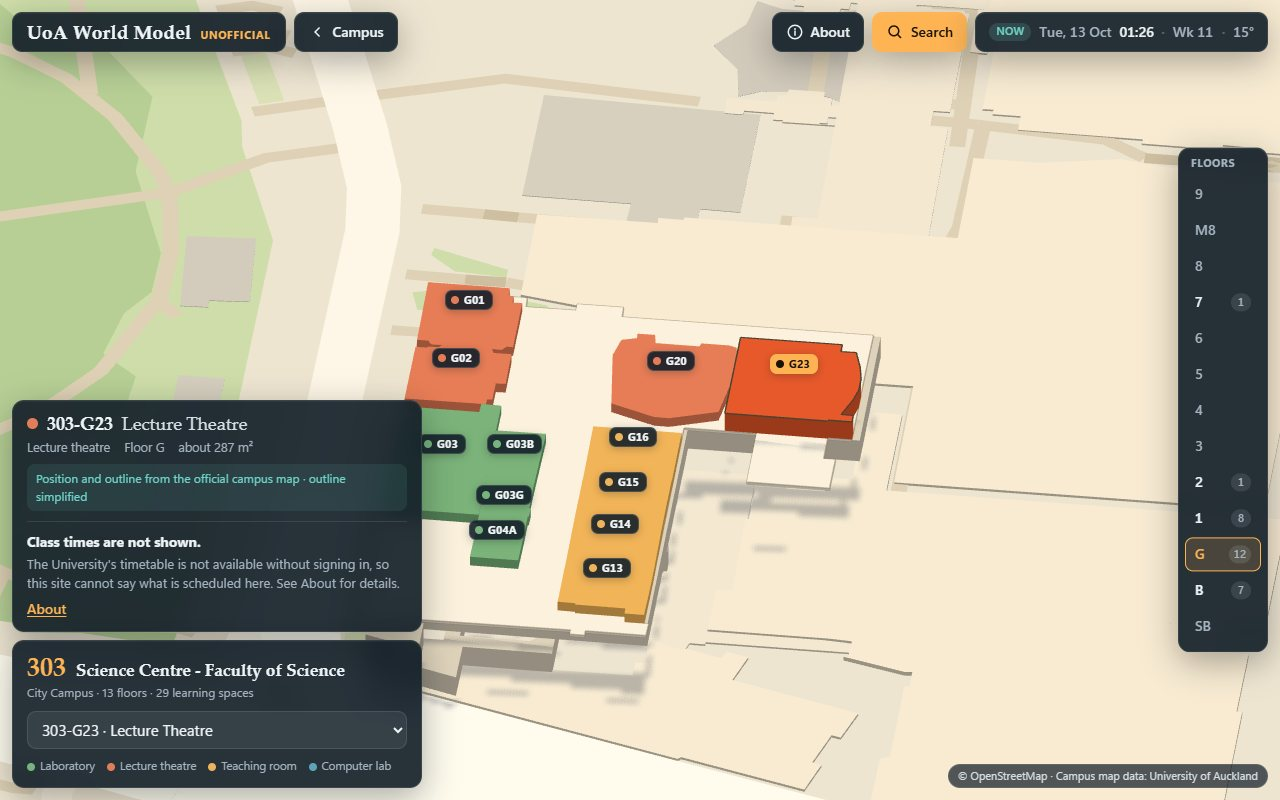
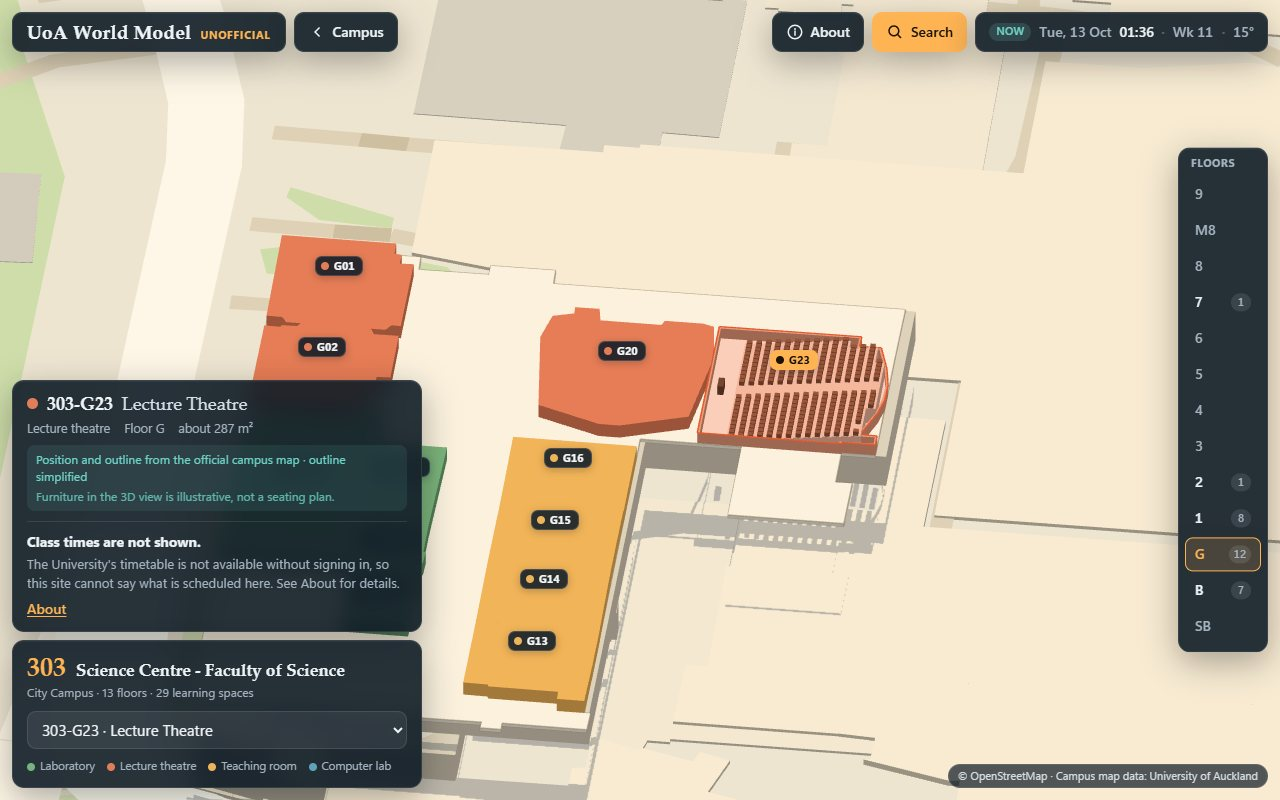
Final report in PROGRESS, live room screenshot, honest descriptions
Claude-Session: https://claude.ai/code/session_019PXYauNdE27cxXuBzu7uHR

diff --git a/PROGRESS.md b/PROGRESS.md
@@ -3,27 +3,48 @@
 Handover notes for whoever (probably a future session of the same agent) picks this up next.
 Read `GOAL.md` (local only, not committed) first, then this file, then `git status` / `git log`.
 
-Last updated: 2026-10-13, about 01:30 NZDT (session 1)
+Last updated: 2026-10-13, about 01:40 NZDT (session 1)
 
 ## Now working on
 
-Everything in GOAL §2 that can be done without a timetable source is done and verified on the live
-site (see "Acceptance criteria" below). What remains is optional polish.
+Nothing is in progress. Everything in GOAL §2 that can be done without a timetable source is done and
+verified on the live site (see "Final report" and "Acceptance criteria"). The session-1 cron job was
+deleted after the final report because the only remaining work needs the user (see "Needs the user").
 
 **If you are a new session:** check `gh run list --limit 3` is green, run
 `E2E_BASE_URL=https://pengqianhan.github.io/UoA-world-model/ npm run e2e`, then either pick a bonus
 item below or, if the user has added a timetable snapshot, follow README "Adding the class timetable".
 
-Bonus ideas, in rough order of value (none started unless noted under "Done"):
+Bonus ideas not done, in rough order of value:
 
-1. Illustrative room interior for the selected room (walls + seat rows), clearly labelled illustrative.
-2. Terrain from open elevation tiles (large change: everything has to be draped).
-3. Course-level catalogue (titles for course codes) from the University Calendar.
-4. Remote campuses in 3D (building data exists; no OSM context fetched for them).
+1. Terrain from open elevation tiles (large change: everything has to be draped over it).
+2. Course-level catalogue (titles for course codes) from the University Calendar.
+3. Remote campuses in 3D (building data exists; no OSM context fetched for them).
+4. Seasons and weather effects in the scene.
+
+## Final report (2026-10-13)
+
+- Live site: https://pengqianhan.github.io/UoA-world-model/
+- Repository: https://github.com/pengqianhan/UoA-world-model (public, MIT for code)
+- Verified at commit `435a4e0`: CI run green (build, e2e on software WebGL, deploy); the same 11
+  Playwright tests pass against the live URL; screenshots read by eye (`docs/*.jpg` are taken from
+  the live site).
+- Data snapshots: campus map, OpenStreetMap and University Calendar all taken 2026-10-13
+  (Pacific/Auckland); recorded with hashes in `data/sources.json` and shown in About.
+- **Not achieved: class times.** No public, no-login source exists (table under "Data sources").
+  Courses 0, scheduled classes 0, so the building/floor/room location percentages do not apply.
+  Criteria 2 and 3 are therefore only partly met: rooms, floors and buildings work with real data,
+  but a room cannot show real classes and a course code resolves only to its subject. The site says
+  this plainly in the room card, the status strip, Search and About, and shows nothing invented.
+- Done beyond the minimum: Grafton and Newmarket in the same scene, day/night lighting with lit
+  windows, Open-Meteo temperature, illustrative room interiors (labelled as such), pins for rooms
+  without an outline, e2e in CI.
+- Not done: terrain (ground is flat), course-level catalogue, 3D for remote campuses, seasons,
+  Chinese or other translations (structure only, as specified).
 
 ## Acceptance criteria (GOAL §2): status and evidence
 
-Verified 2026-10-13 against https://pengqianhan.github.io/UoA-world-model/ at commit `484e2bc` with
+Verified 2026-10-13 against https://pengqianhan.github.io/UoA-world-model/ at commit `435a4e0` with
 `E2E_BASE_URL=... npm run e2e` (11/11 passed) plus screenshots read by eye.
 
 | # | Criterion | Status | Evidence |
@@ -36,7 +57,7 @@ Verified 2026-10-13 against https://pengqianhan.github.io/UoA-world-model/ at co
 | 6 | 390 px phone: search, building and class info | Met (class info = the "not shown" note) | e2e "6." (mobile project) |
 | 7 | About: unofficial notice, sources with links and snapshot dates, OSM attribution, limitations | Met | e2e "7." |
 | 8 | All text from locale files; `?lang=`; a new language is one new file | Met | e2e "8."; `tests/i18n.test.ts` |
-| 9 | Repo pushed, CI green on `main`, README covers running, refreshing data, adding a language | Met | run 38248478054: build, e2e, deploy all success |
+| 9 | Repo pushed, CI green on `main`, README covers running, refreshing data, adding a language | Met | latest runs on `main`: build, e2e, deploy all success |
 | 10 | Coverage numbers in the final report | See "Coverage" | `public/data/meta.json` |
 
 ## Coverage (snapshot 2026-10-13)
@@ -52,16 +73,17 @@ Verified 2026-10-13 against https://pengqianhan.github.io/UoA-world-model/ at co
 - Local toolchain: Vite 8 + TypeScript 7 + Preact 11 + three 0.186 + Vitest 5 + Playwright 1.64.
 - GitHub repo `pengqianhan/UoA-world-model` (public), Pages enabled with `build_type=workflow`,
   workflow `.github/workflows/deploy.yml` (typecheck, unit tests, build, deploy; separate e2e job).
-- Cron job `17 */5 * * *` created in session 1 (id 233af833). Session-only; re-check with CronList on
-  every wake-up and recreate if missing or older than 6 days.
+- Cron job `17 */5 * * *` was created at the start of session 1 (id 233af833) and deleted at the end
+  of it, after the final report. It was session-only. A new session that has real work to continue
+  (for example after the user supplies API credentials) should create a fresh one as GOAL §10 says.
 - Data feasibility research finished (see "Data sources").
 - Data pipeline (`npm run data:fetch`, `npm run data:build`) writes `public/data/*.json`:
   194 buildings (139 on the 3D map), 786 learning spaces with outlines, 4,668 further rooms in a lazy
   index, 251 subject codes, the 2026 academic calendar, OSM context (2,525 buildings, 4,380 road
   segments, 563 green/water areas, 1,819 trees). Schedule is empty (`available: false`).
-- App: three.js orthographic campus, building cut-away with floors and rooms, search, Now/Preview time
-  panel, About, status strip, URL state, English locale file, phone layout, day/night lighting,
-  Open-Meteo temperature in the time chip.
+- App: three.js orthographic campus, building cut-away with floors and rooms, illustrative interior
+  for the selected room, search, Now/Preview time panel, About, status strip with campus buttons,
+  URL state, English locale file, phone layout, day/night lighting, Open-Meteo temperature.
 - Tests: 66 unit tests (`npm test`), 11 Playwright tests (`npm run e2e`, 10 desktop + 1 phone) green
   locally on the real GPU, on SwiftShader (`E2E_GL=swiftshader`), in CI, and against the live site.
   Screenshots were inspected by eye: the canvas shows the campus, the floor view, the pin for
